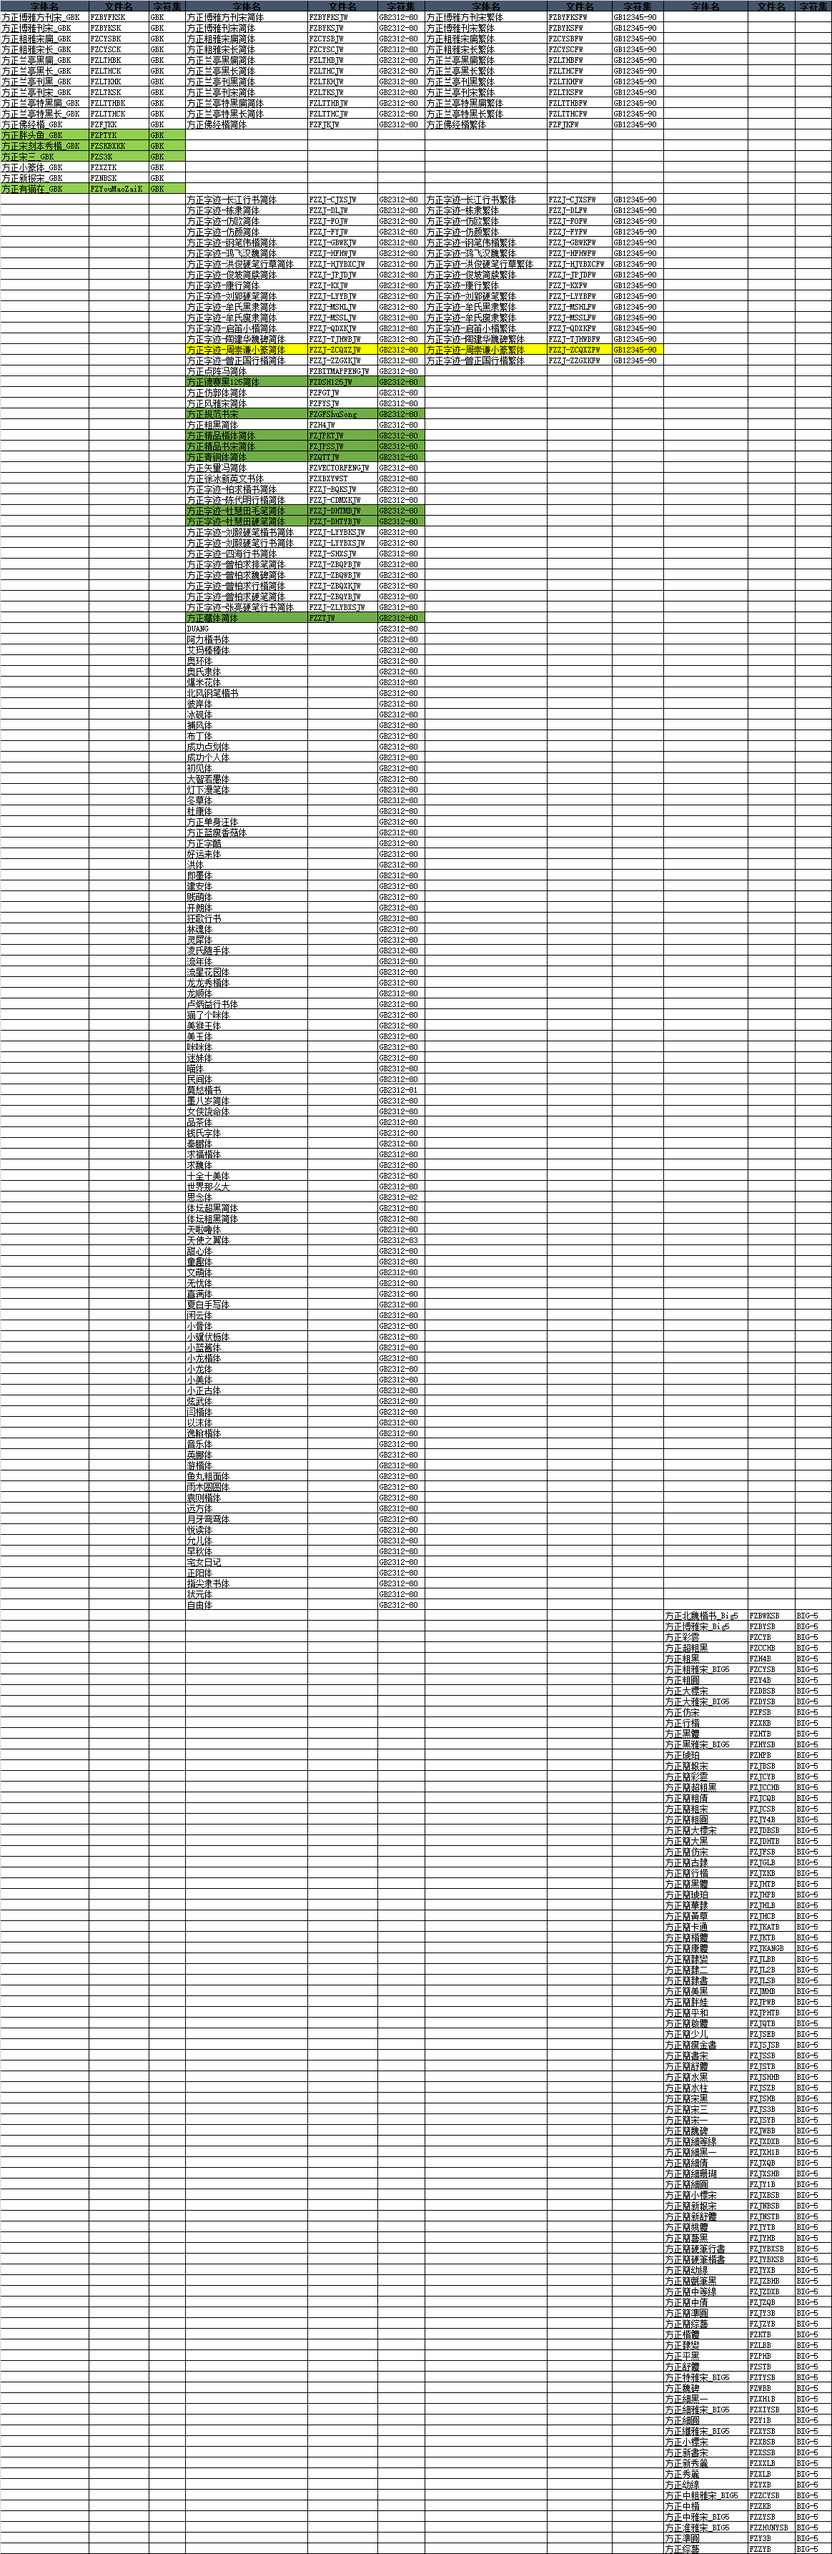
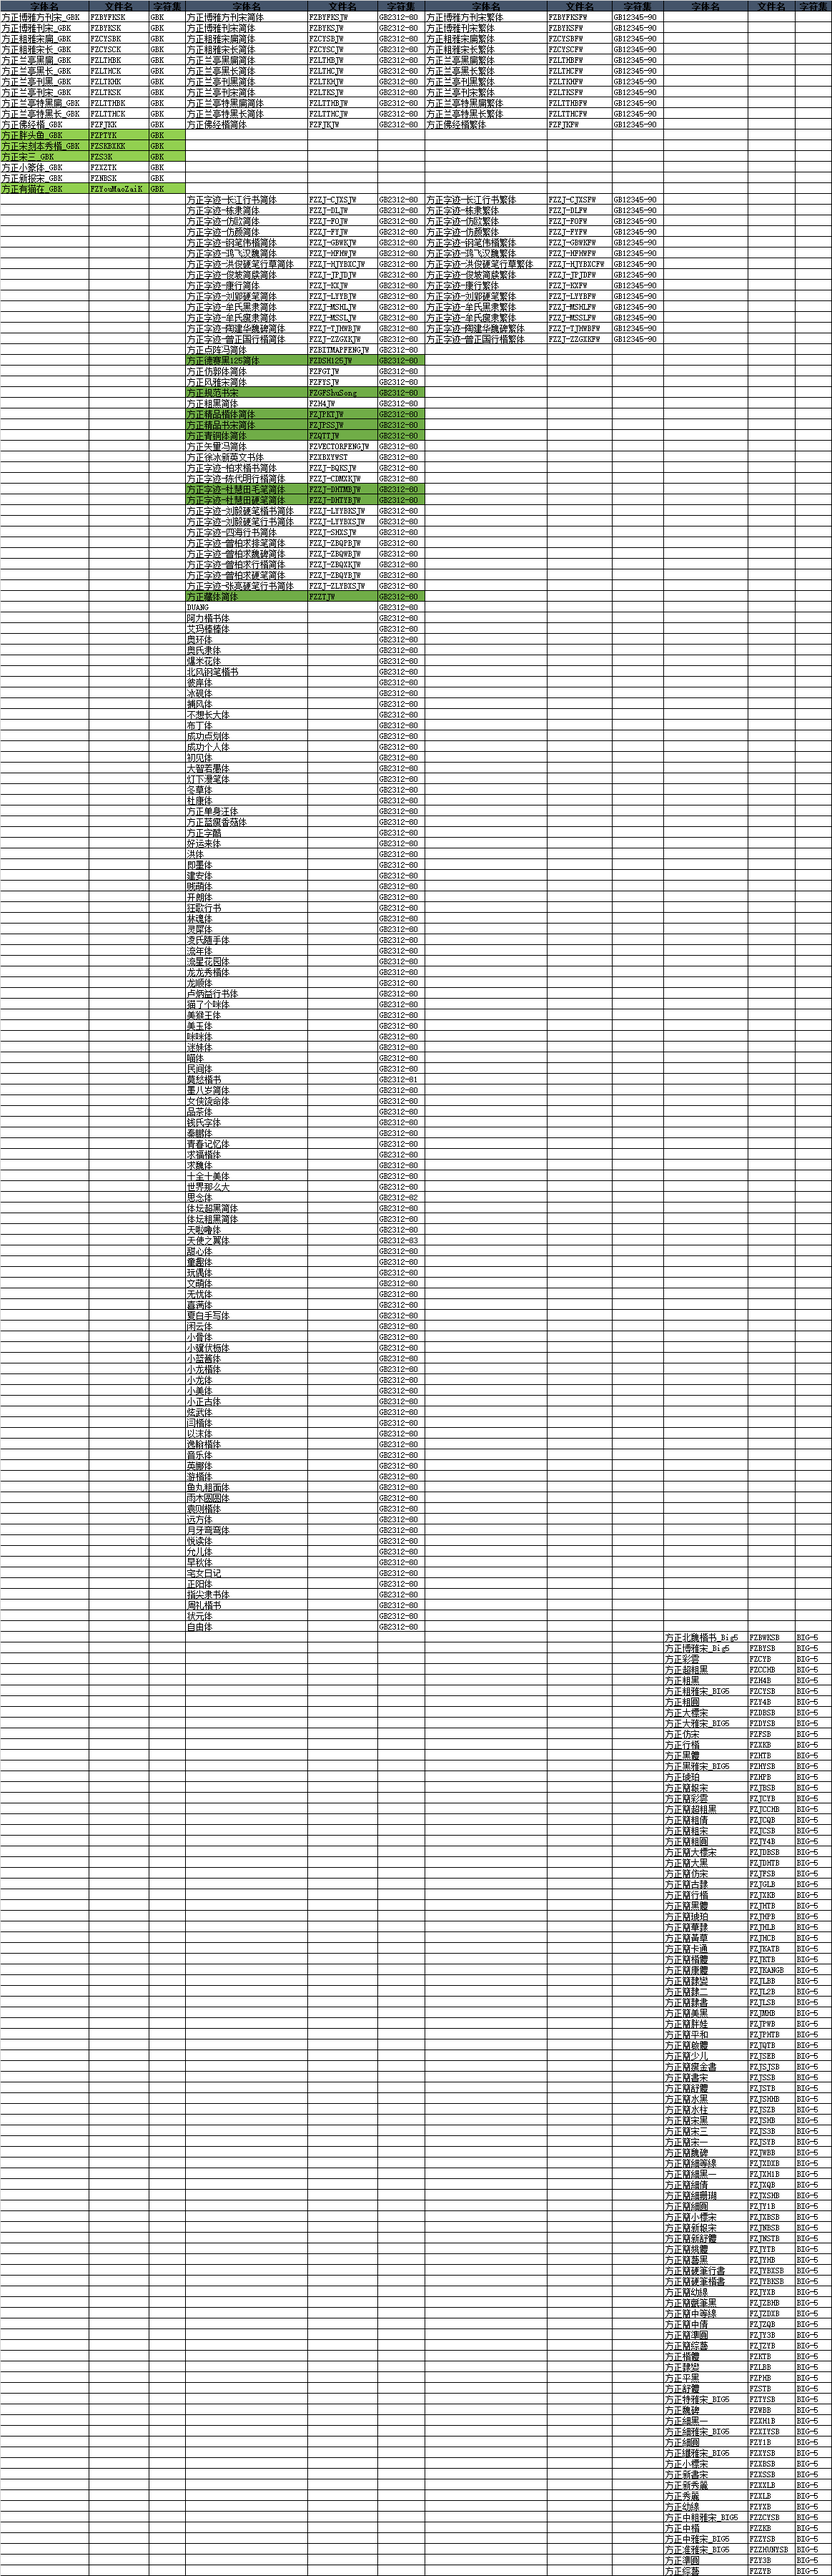
字体上架:方正字迹-周崇谦小篆简体/方正字迹-周崇谦小篆繁体/方正字迹-启笛小楷简体/方正字迹-启笛小楷繁体

Changed region(s): [[0.0, 0.0, 1.0, 1.0]]

diff --git a/README.md b/README.md
@@ -12,7 +12,7 @@
 
 方正字体样张:[http://shop.foundertype.com/index.php/Index/downSample.html](http://shop.foundertype.com/index.php/Index/downSample.html)
 
-目前官方商城在售字体555种：
+目前官方商城在售字体559种：
 
 | 字体名                      | 文件名             | 字符集     |
 |-----------------------------|--------------------|------------|
@@ -171,6 +171,7 @@
 | 方正字迹-吕建德行楷繁体     | FZZJ-LJDXKFW       | GB12345-90 |
 | 方正字迹-吕建德魏碑繁体     | FZZJ-LJDWBFW       | GB12345-90 |
 | 方正字迹-佩安硬笔繁体       | FZZJ-PANYBFW       | GB12345-90 |
+| 方正字迹-启笛小楷繁体       | FZZJ-QDXKFW        | GB12345-90 |
 | 方正字迹-童佬繁体           | FZZJ-TLFW          | GB12345-90 |
 | 方正字迹-王伟钢笔行书繁体   | FZZJ-WWGBXSFW      | GB12345-90 |
 | 方正字迹-潇洒隶书繁体       | FZZJ-XSLSFW        | GB12345-90 |
@@ -181,6 +182,7 @@
 | 方正字迹-彦辰清酒繁体       | FZZJ-YCQJFW        | GB12345-90 |
 | 方正字迹-元童楷隶繁体       | FZZJ-YTKLFW        | GB12345-90 |
 | 方正字迹-张爨繁体           | FZZJ-ZCFW          | GB12345-90 |
+| 方正字迹-周崇谦小篆繁体     | FZZJ-ZCQXZFW       | GB12345-90 |
 | 方正字迹-张颢硬笔楷体繁体   | FZZJ-ZHYBKTFW      | GB12345-90 |
 | 方正字迹-张乃仁行楷繁体     | FZZJ-ZNRXKFW       | GB12345-90 |
 | 方正字迹-张士超魏碑繁体     | FZZJ-ZSCWBFW       | GB12345-90 |
@@ -435,6 +437,7 @@
 | 方正字迹-吕建德行楷简体     | FZZJ-LJDXKJW       | GB2312-80  |
 | 方正字迹-吕建德魏碑简体     | FZZJ-LJDWBJW       | GB2312-80  |
 | 方正字迹-佩安硬笔简体       | FZZJ-PANYBJW       | GB2312-80  |
+| 方正字迹-启笛小楷简体       | FZZJ-QDXKJW        | GB2312-80  |
 | 方正字迹-邱氏粗瘦金书简体   | FZZJ-QSCSJSJW      | GB2312-80  |
 | 方正字迹-童佬简体           | FZZJ-TLJW          | GB2312-80  |
 | 方正字迹-童体毛笔简体       | FZZJ-TTMBJW        | GB2312-80  |
@@ -450,6 +453,7 @@
 | 方正字迹-叶根友特楷简体     | FZZJ-YGYTKJW       | GB2312-80  |
 | 方正字迹-元童楷隶简体       | FZZJ-YTKLJW        | GB2312-80  |
 | 方正字迹-张爨简体           | FZZJ-ZCJW          | GB2312-80  |
+| 方正字迹-周崇谦小篆简体     | FZZJ-ZCQXZJW       | GB2312-80  |
 | 方正字迹-张颢硬笔楷体简体   | FZZJ-ZHYBKTJW      | GB2312-80  |
 | 方正字迹-张乃仁行楷简体     | FZZJ-ZNRXKJW       | GB2312-80  |
 | 方正字迹-张士超魏碑简体     | FZZJ-ZSCWBJW       | GB2312-80  |
